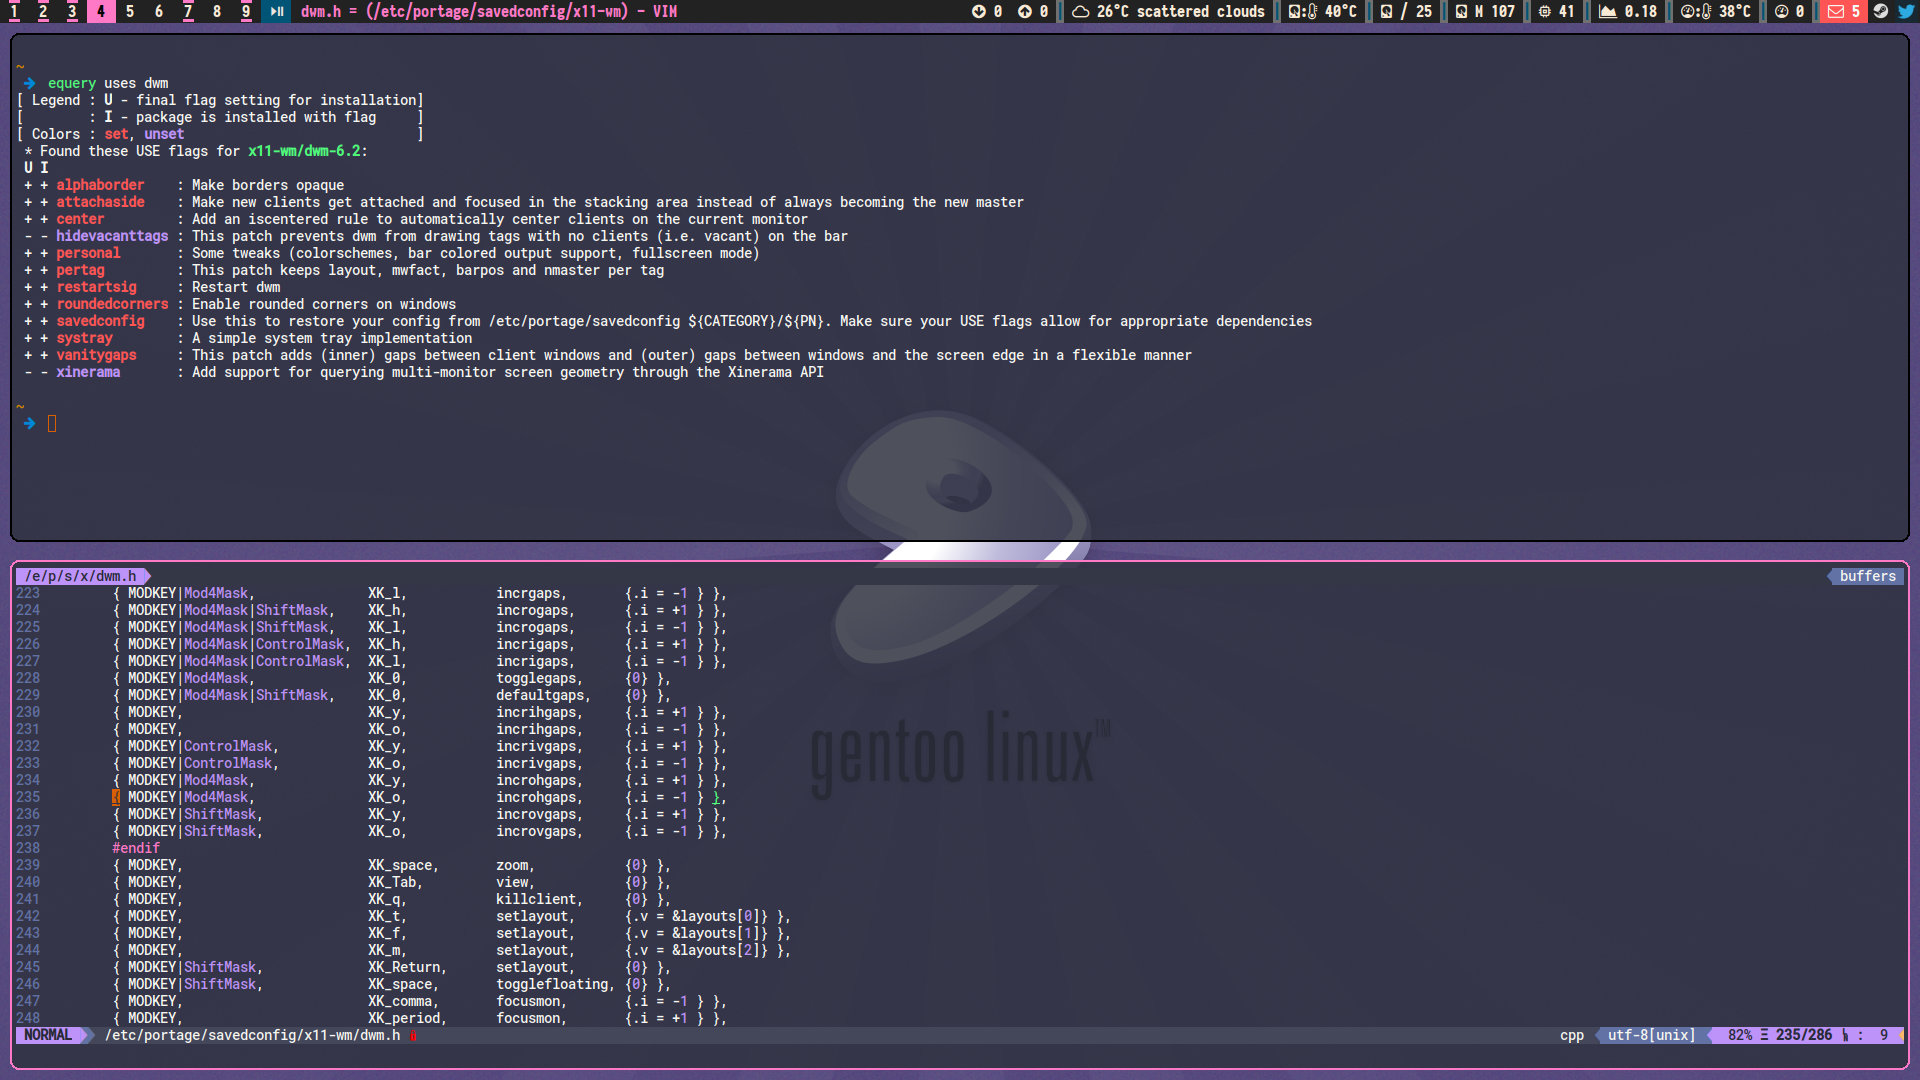
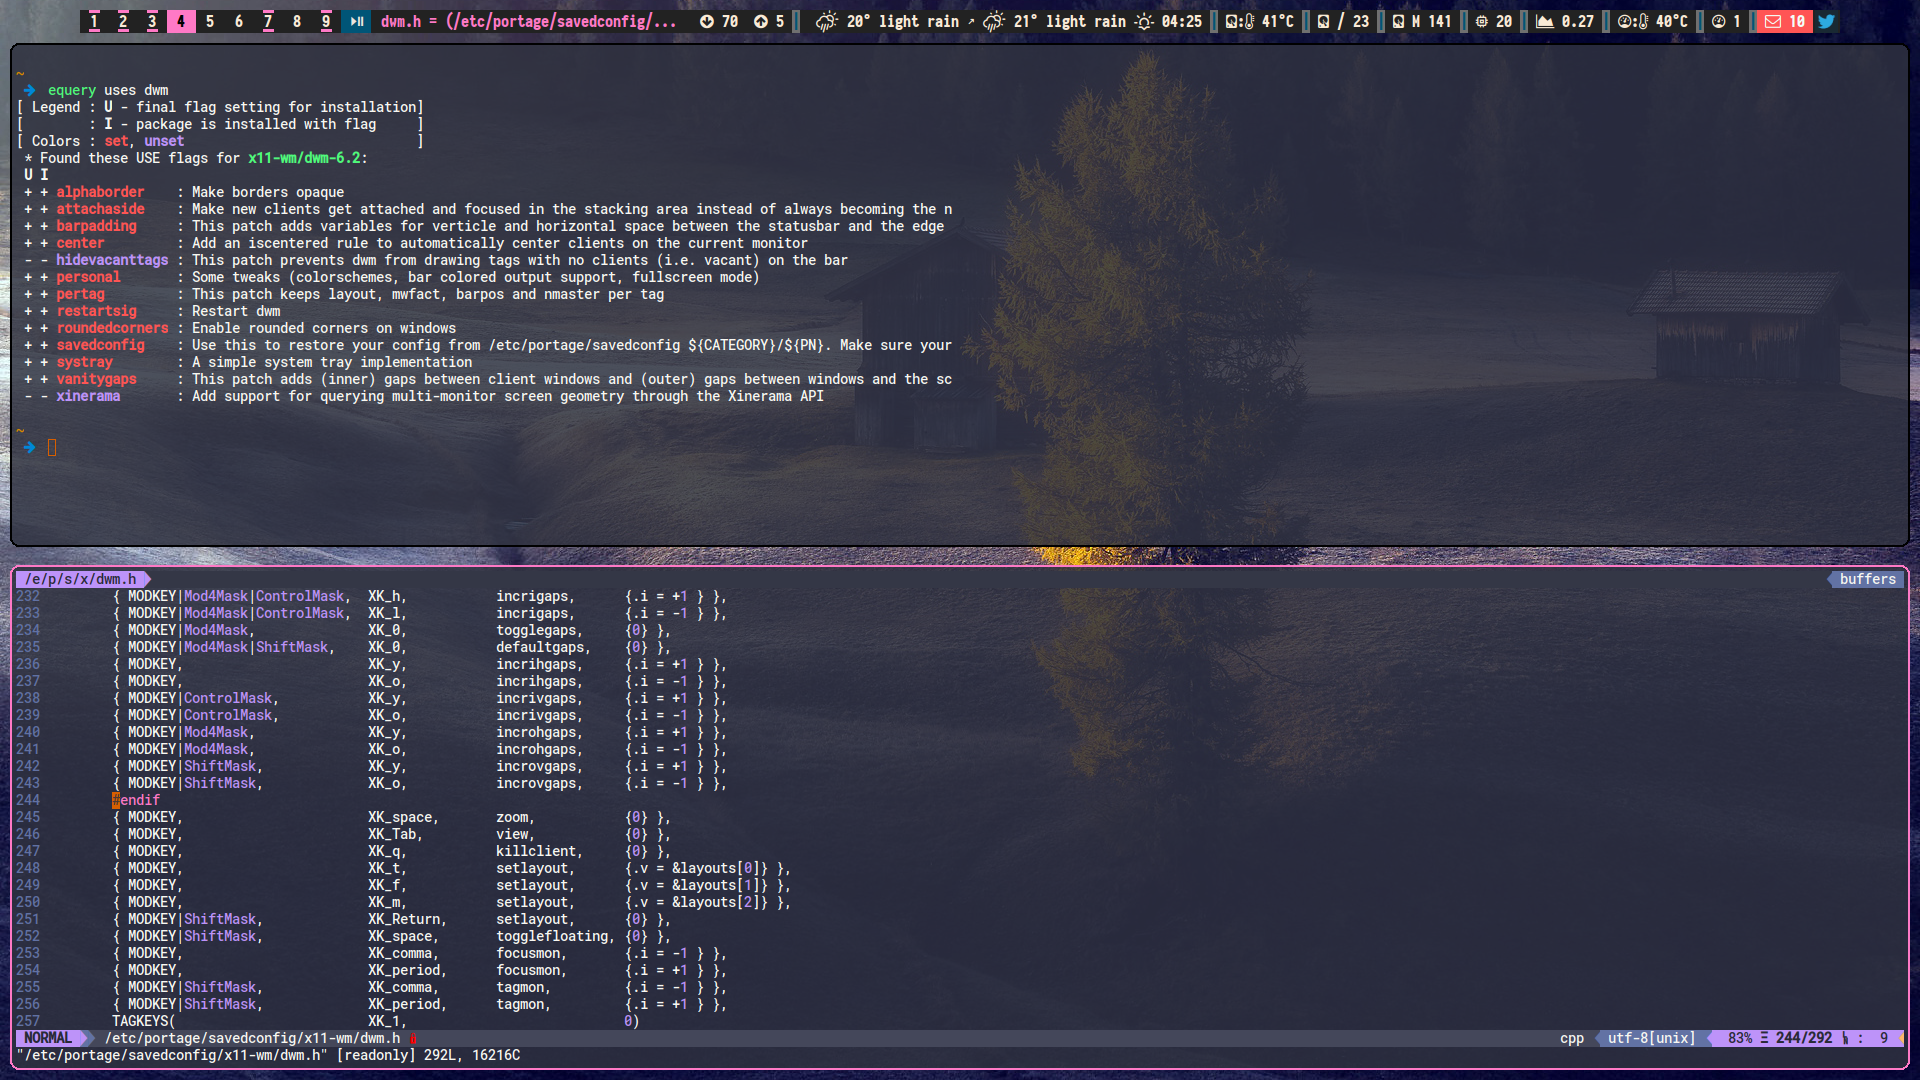
Add barpadding patch

Changed region(s): [[0.0, 0.0, 1.0, 1.0]]

diff --git a/README.md b/README.md
@@ -13,6 +13,7 @@ Feel free to add more via PR or ask for the ones you would like to see
 
 * alphaborder
 * attachaside
+* barpadding
 * center
 * hidevcacanttags
 * pertag
